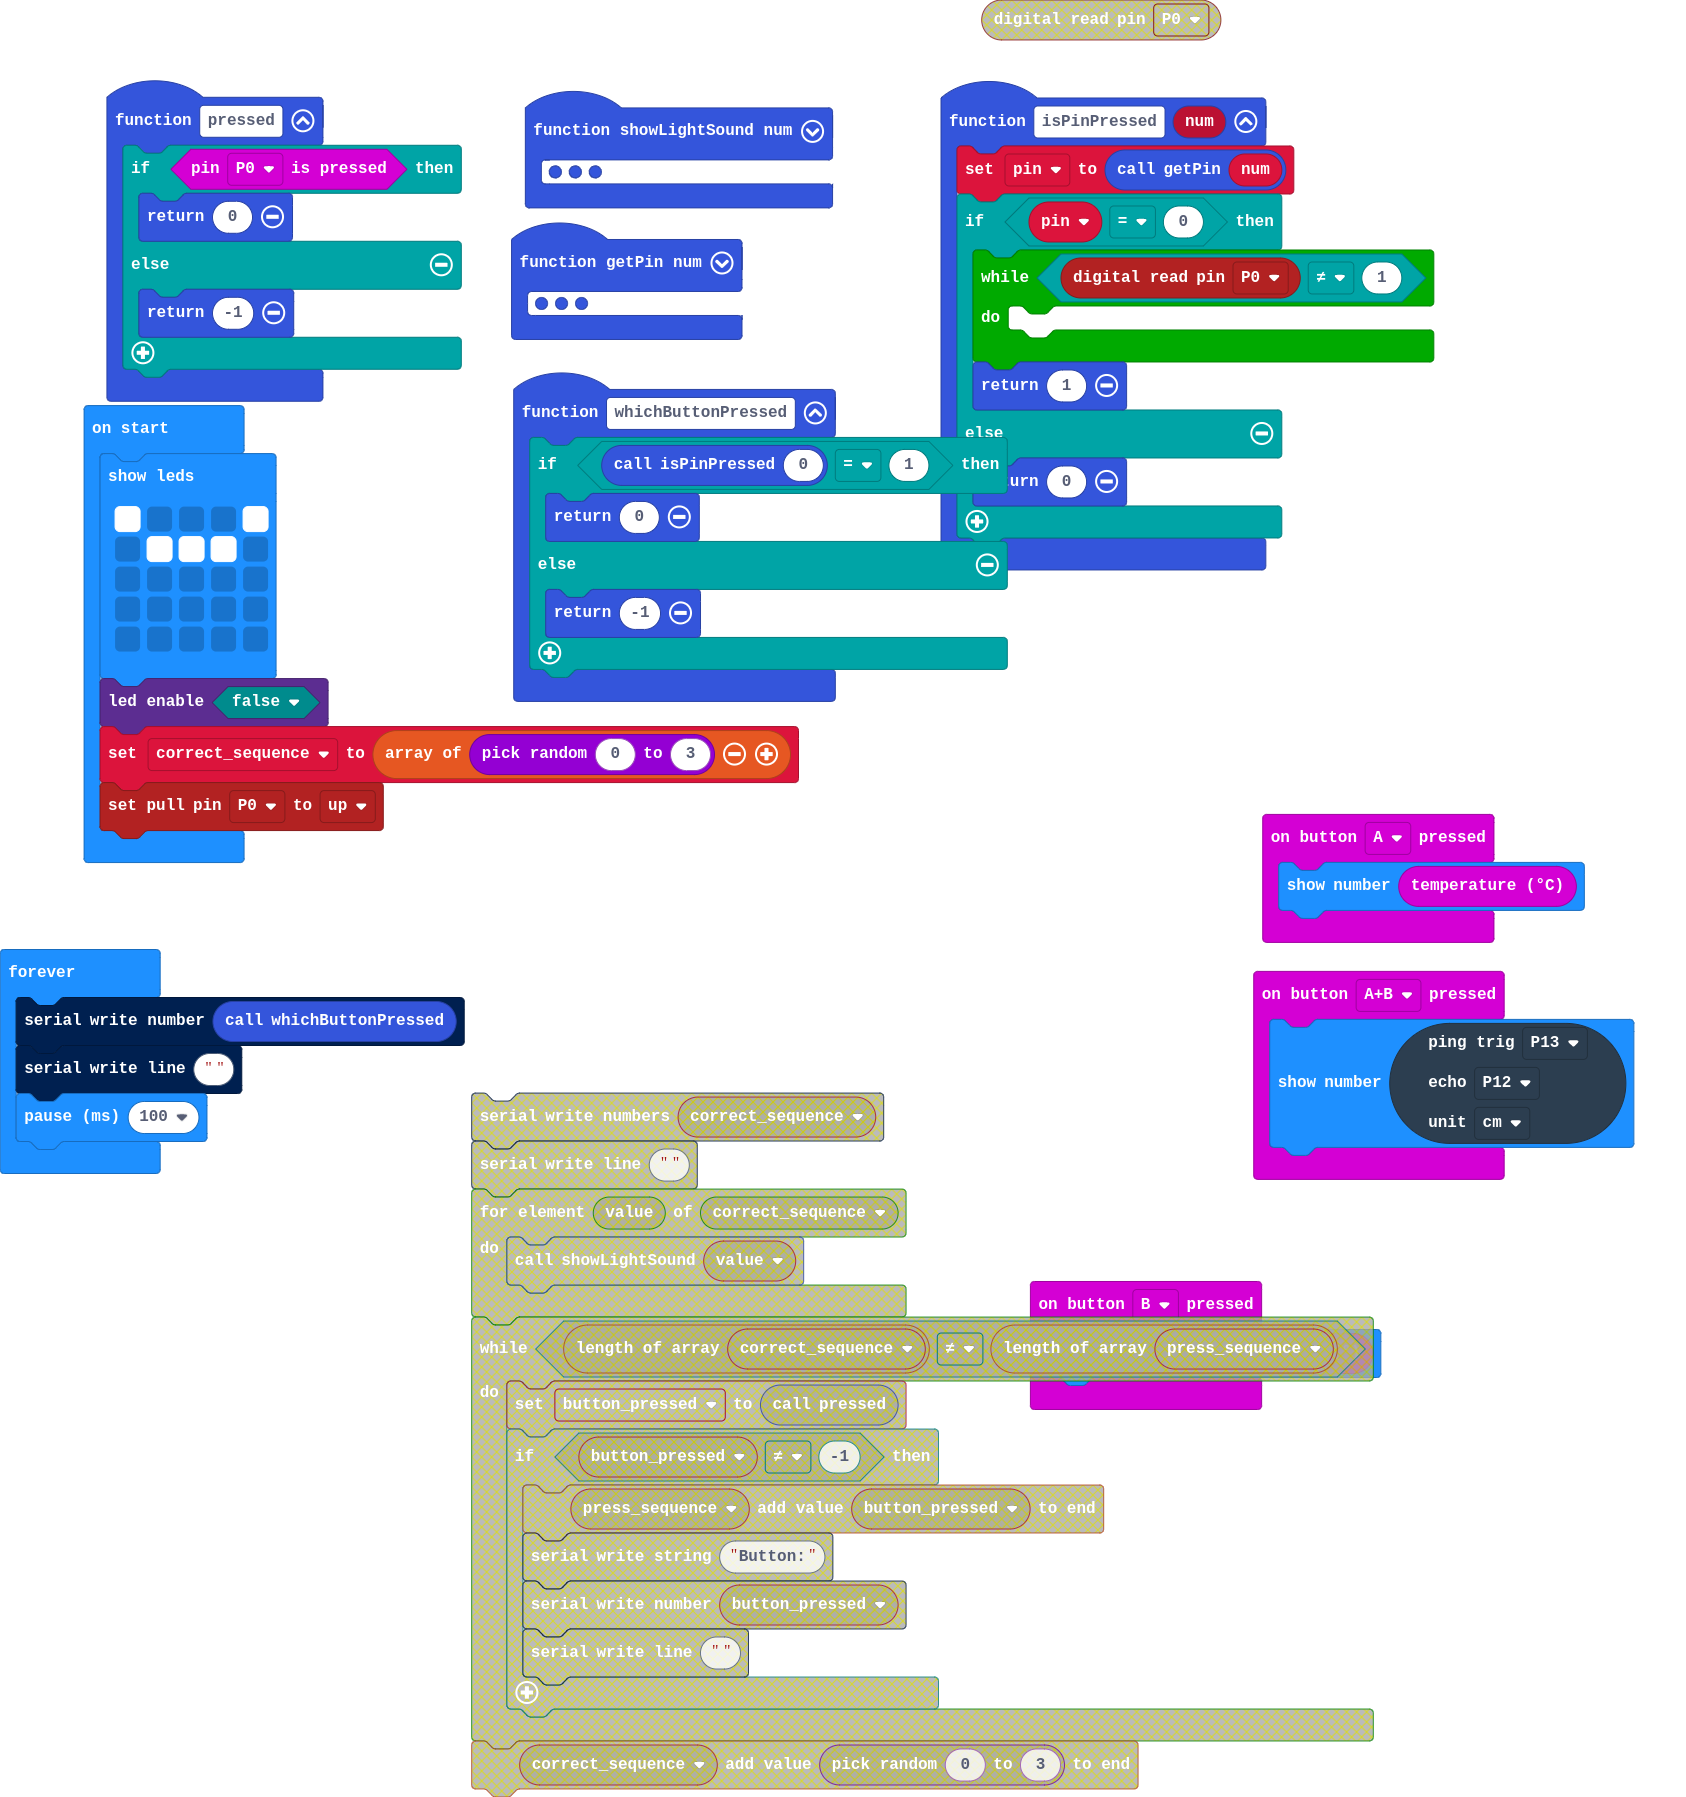
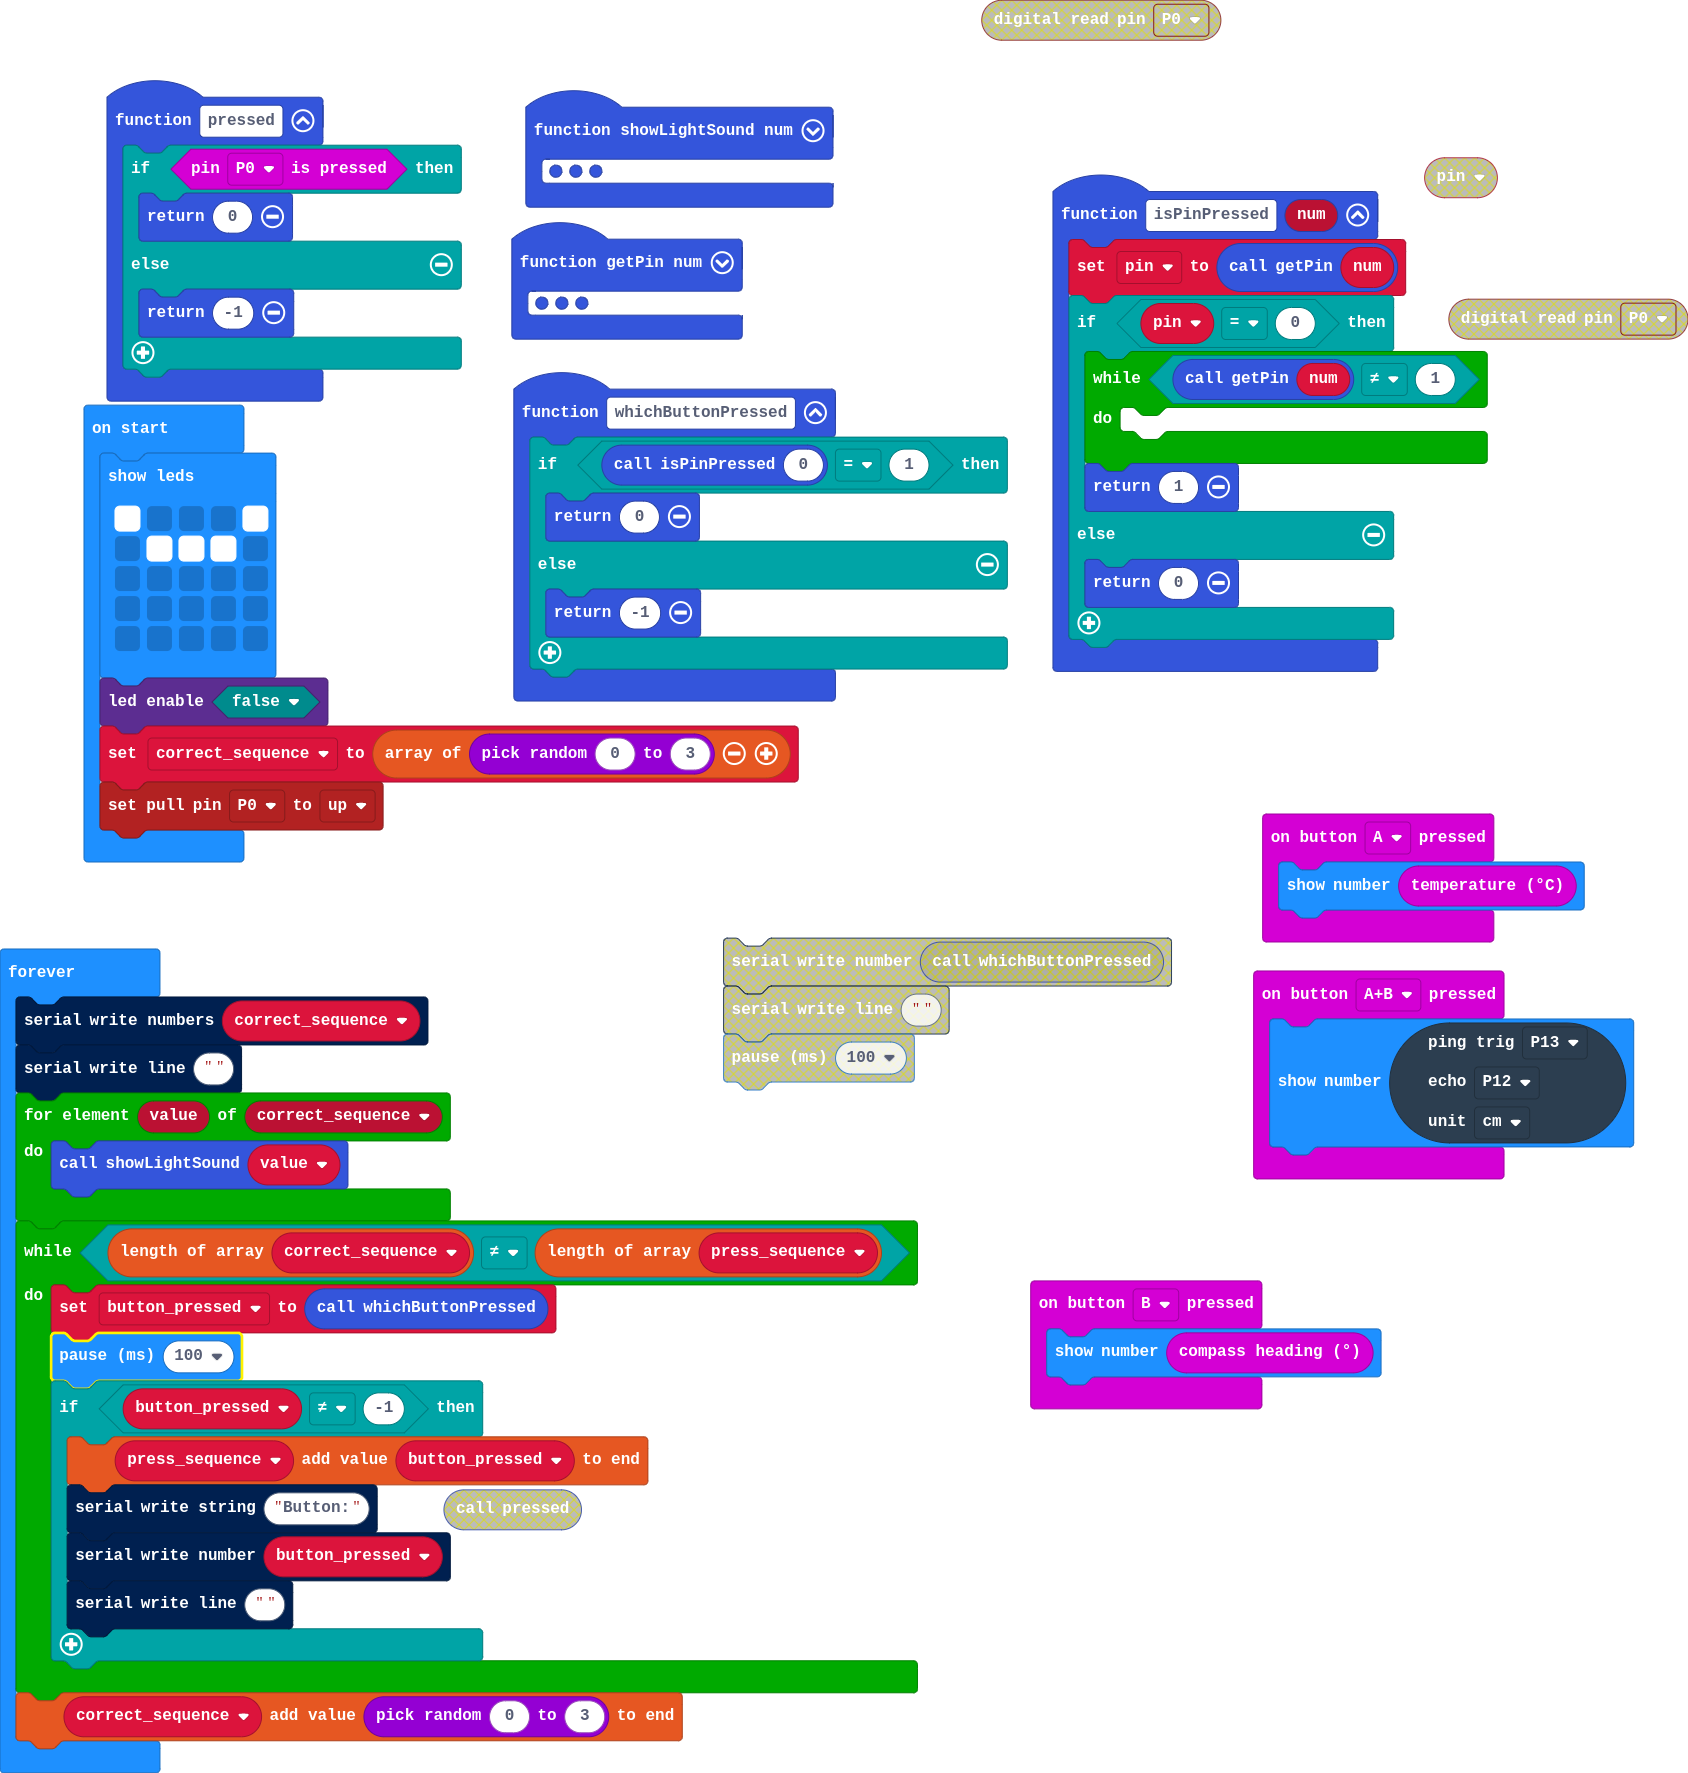
Integrated with the random sequence portion.

diff --git a/main.ts b/main.ts
@@ -23,7 +23,7 @@ function showLightSound (num: number) {
 function isPinPressed (num: number) {
     pin = getPin(num)
     if (pin == 0) {
-        while (pins.digitalReadPin(DigitalPin.P0) != 1) {
+        while (getPin(num) != 1) {
         	
         }
         return 1
@@ -64,6 +64,7 @@ input.onButtonPressed(Button.AB, function () {
 input.onButtonPressed(Button.B, function () {
     basic.showNumber(input.compassHeading())
 })
+let button_pressed = 0
 let pin = 0
 basic.showLeds(`
     # . . . #
@@ -76,7 +77,21 @@ led.enable(false)
 let correct_sequence = [randint(0, 3)]
 pins.setPull(DigitalPin.P0, PinPullMode.PullUp)
 basic.forever(function () {
-    serial.writeNumber(whichButtonPressed())
+    let press_sequence: number[] = []
+    serial.writeNumbers(correct_sequence)
     serial.writeLine("")
-    basic.pause(100)
+    for (let value of correct_sequence) {
+        showLightSound(value)
+    }
+    while (correct_sequence.length != press_sequence.length) {
+        button_pressed = whichButtonPressed()
+        basic.pause(100)
+        if (button_pressed != -1) {
+            press_sequence.push(button_pressed)
+            serial.writeString("Button:")
+            serial.writeNumber(button_pressed)
+            serial.writeLine("")
+        }
+    }
+    correct_sequence.push(randint(0, 3))
 })
